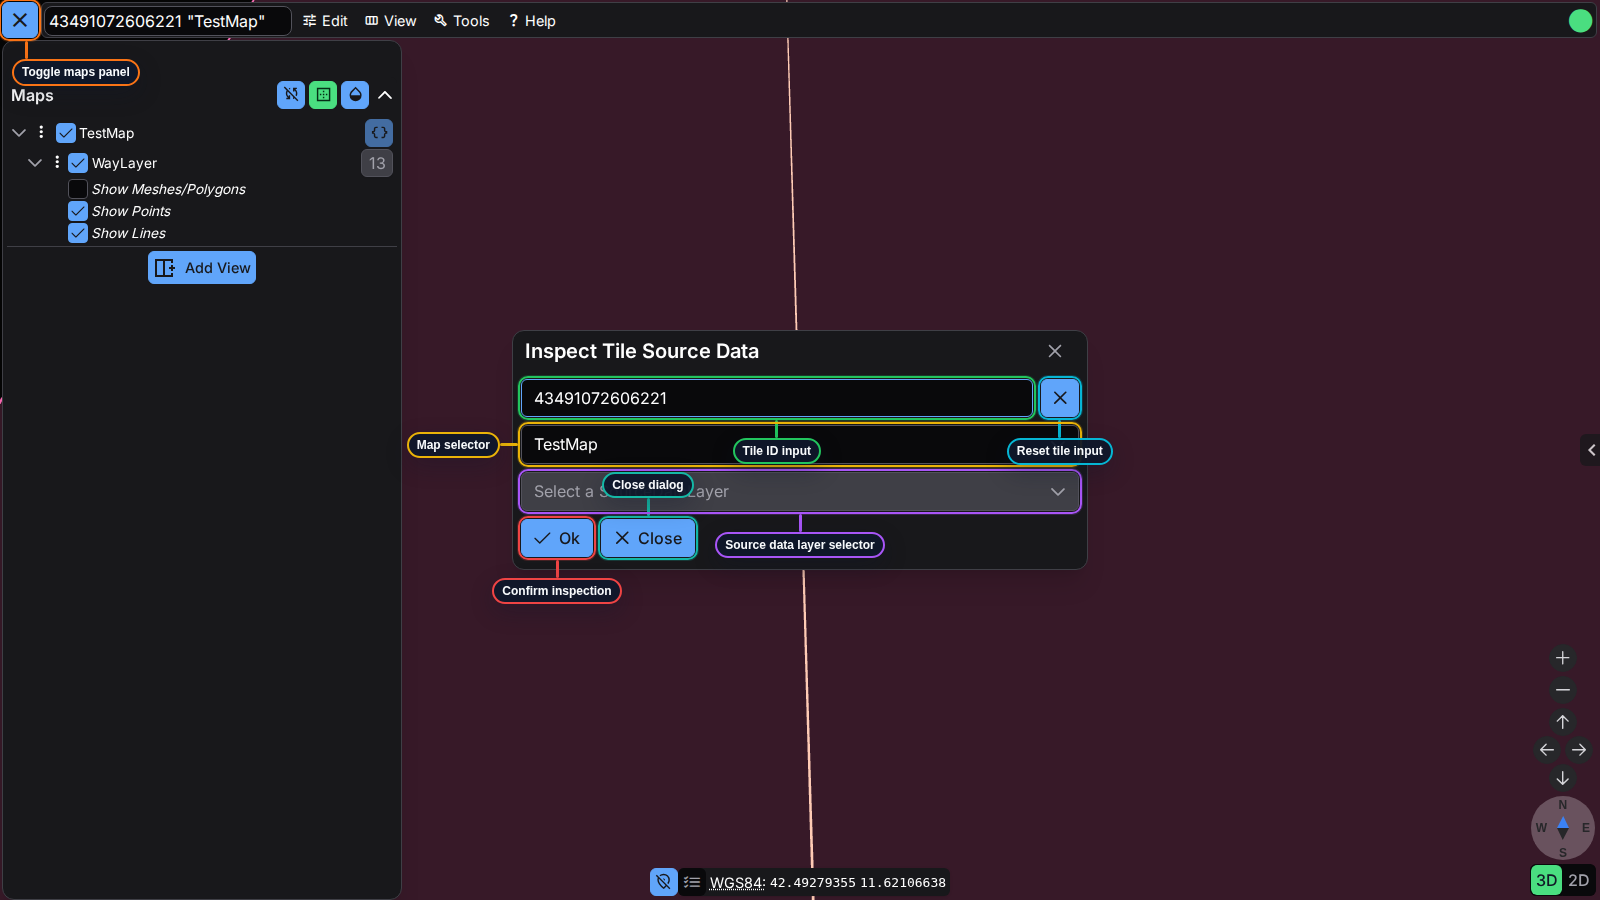
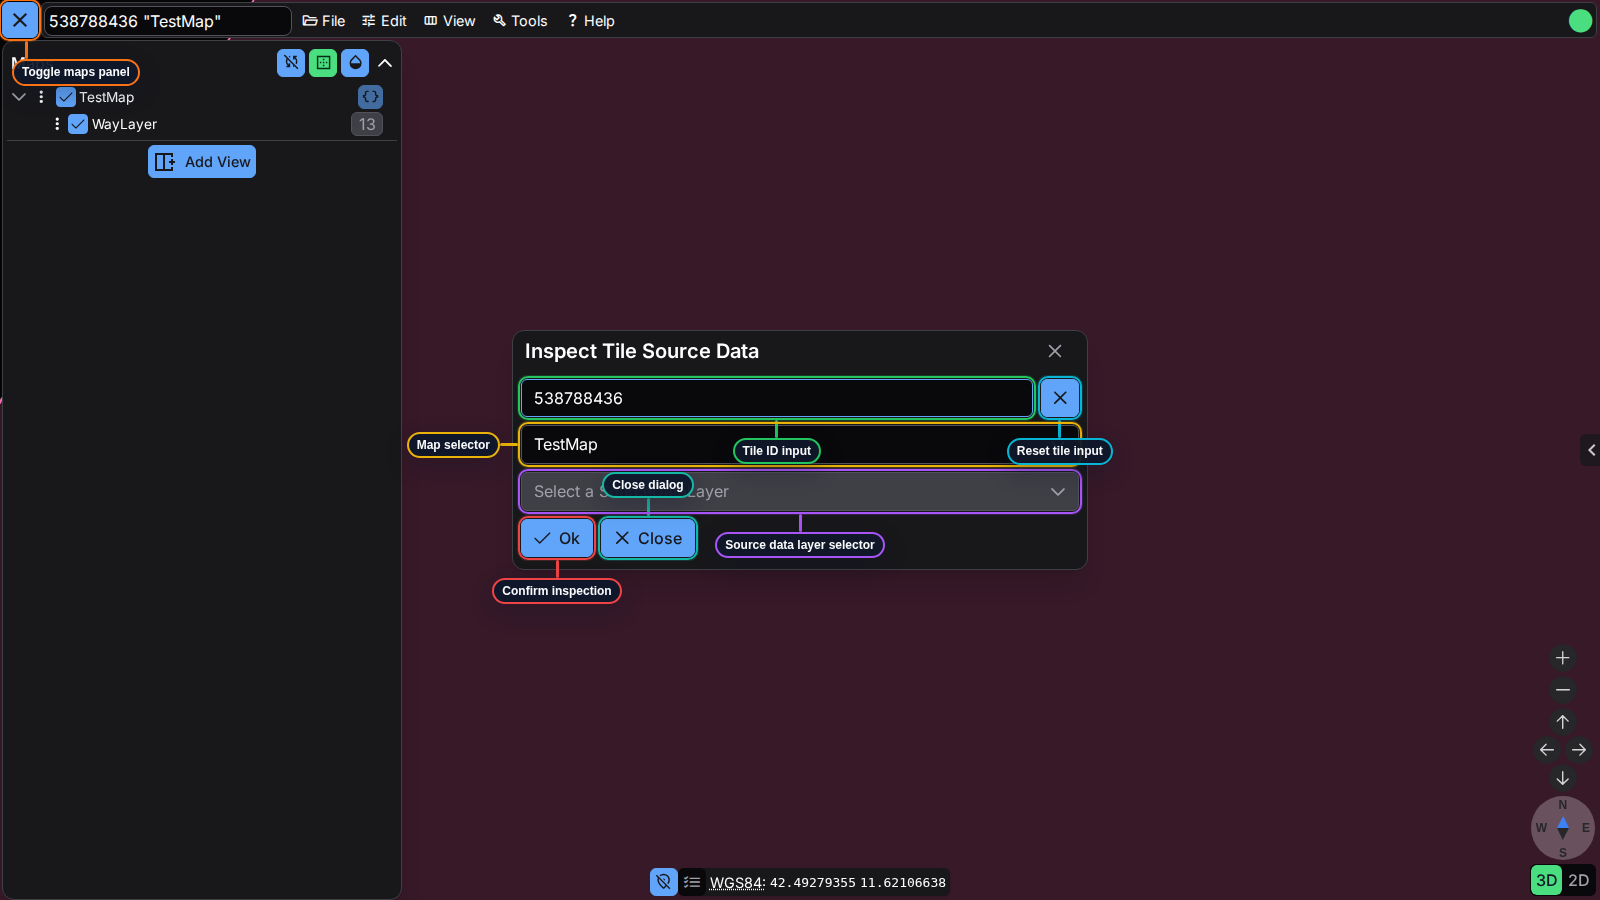
Update source-data Playwright snapshots

diff --git a/playwright/fixtures/test.ts b/playwright/fixtures/test.ts
@@ -1,7 +1,7 @@
 import { test as base } from '@playwright/test';
 import * as fs from 'node:fs';
 import * as path from 'node:path';
-import { TEST_LAYER_NAMES, TEST_MAP_NAMES, TEST_STATE_SNAPSHOT } from '../utils/test-params';
+import { TEST_LAYER_NAMES, TEST_MAP_NAMES, TEST_STATE_SNAPSHOT, TEST_VIEW_POSITIONS } from '../utils/test-params';
 import { loadStateSnapshotLocalStorageEntries } from '../utils/state-snapshots';
 
 const DARK_MODE_KEY = 'ui.darkMode';
@@ -86,6 +86,14 @@ type SnapshotFixtures = {
     stateSnapshot: string | null;
 };
 
+/** Computes the packed tile id that contains one deterministic test viewport position. */
+async function packedTileIdForTestPosition(locationIndex = 0): Promise<number> {
+    const { MortonCode, PackedTileId, Wgs84 } = await import('@ndsev/ndslive-math');
+    const [lon, lat, level] = TEST_VIEW_POSITIONS[locationIndex];
+    const [x, y] = new Wgs84(lon, lat).toNdsCoordinates();
+    return PackedTileId.fromMortonAndLevel(MortonCode.fromNdsCoordinates(x, y), level).value;
+}
+
 export const test = base.extend<SnapshotFixtures>({
     stateSnapshot: [TEST_STATE_SNAPSHOT, { option: true }],
     context: async ({ context, stateSnapshot }, use) => {
@@ -146,18 +154,16 @@ export const test = base.extend<SnapshotFixtures>({
                     return;
                 }
 
+                const tileId = await packedTileIdForTestPosition();
                 const responses = requests.map((req: any) => {
                     const mapId = typeof req.mapId === 'string' ? req.mapId : TEST_MAP_NAMES[0];
                     const typeId = typeof req.typeId === 'string' ? req.typeId : 'Way';
                     const featureId = Array.isArray(req.featureId) ? req.featureId : [];
 
-                    // Use a fixed tile id for all located features. The Python
-                    // datasource generates the same synthetic grid of roads in
-                    // every tile, so any tile id is acceptable as long as the
-                    // key matches coreLib.getTileFeatureLayerKey(mapId, layerId, tileId).
-                    const numericTileId = 1;
-                    const hexTileId = numericTileId.toString(16);
-                    const tileKey = `Features:${mapId}:${TEST_LAYER_NAMES[0]}:${hexTileId}`;
+                    // Use a valid packed tile id for all located features. The
+                    // Python datasource generates the same synthetic grid in
+                    // every tile, but mapget now rejects non-packed legacy ids.
+                    const tileKey = `Features:${mapId}:${TEST_LAYER_NAMES[0]}:${tileId}:0`;
 
                     // Each locate request yields a single synthetic location result.
                     return [{
